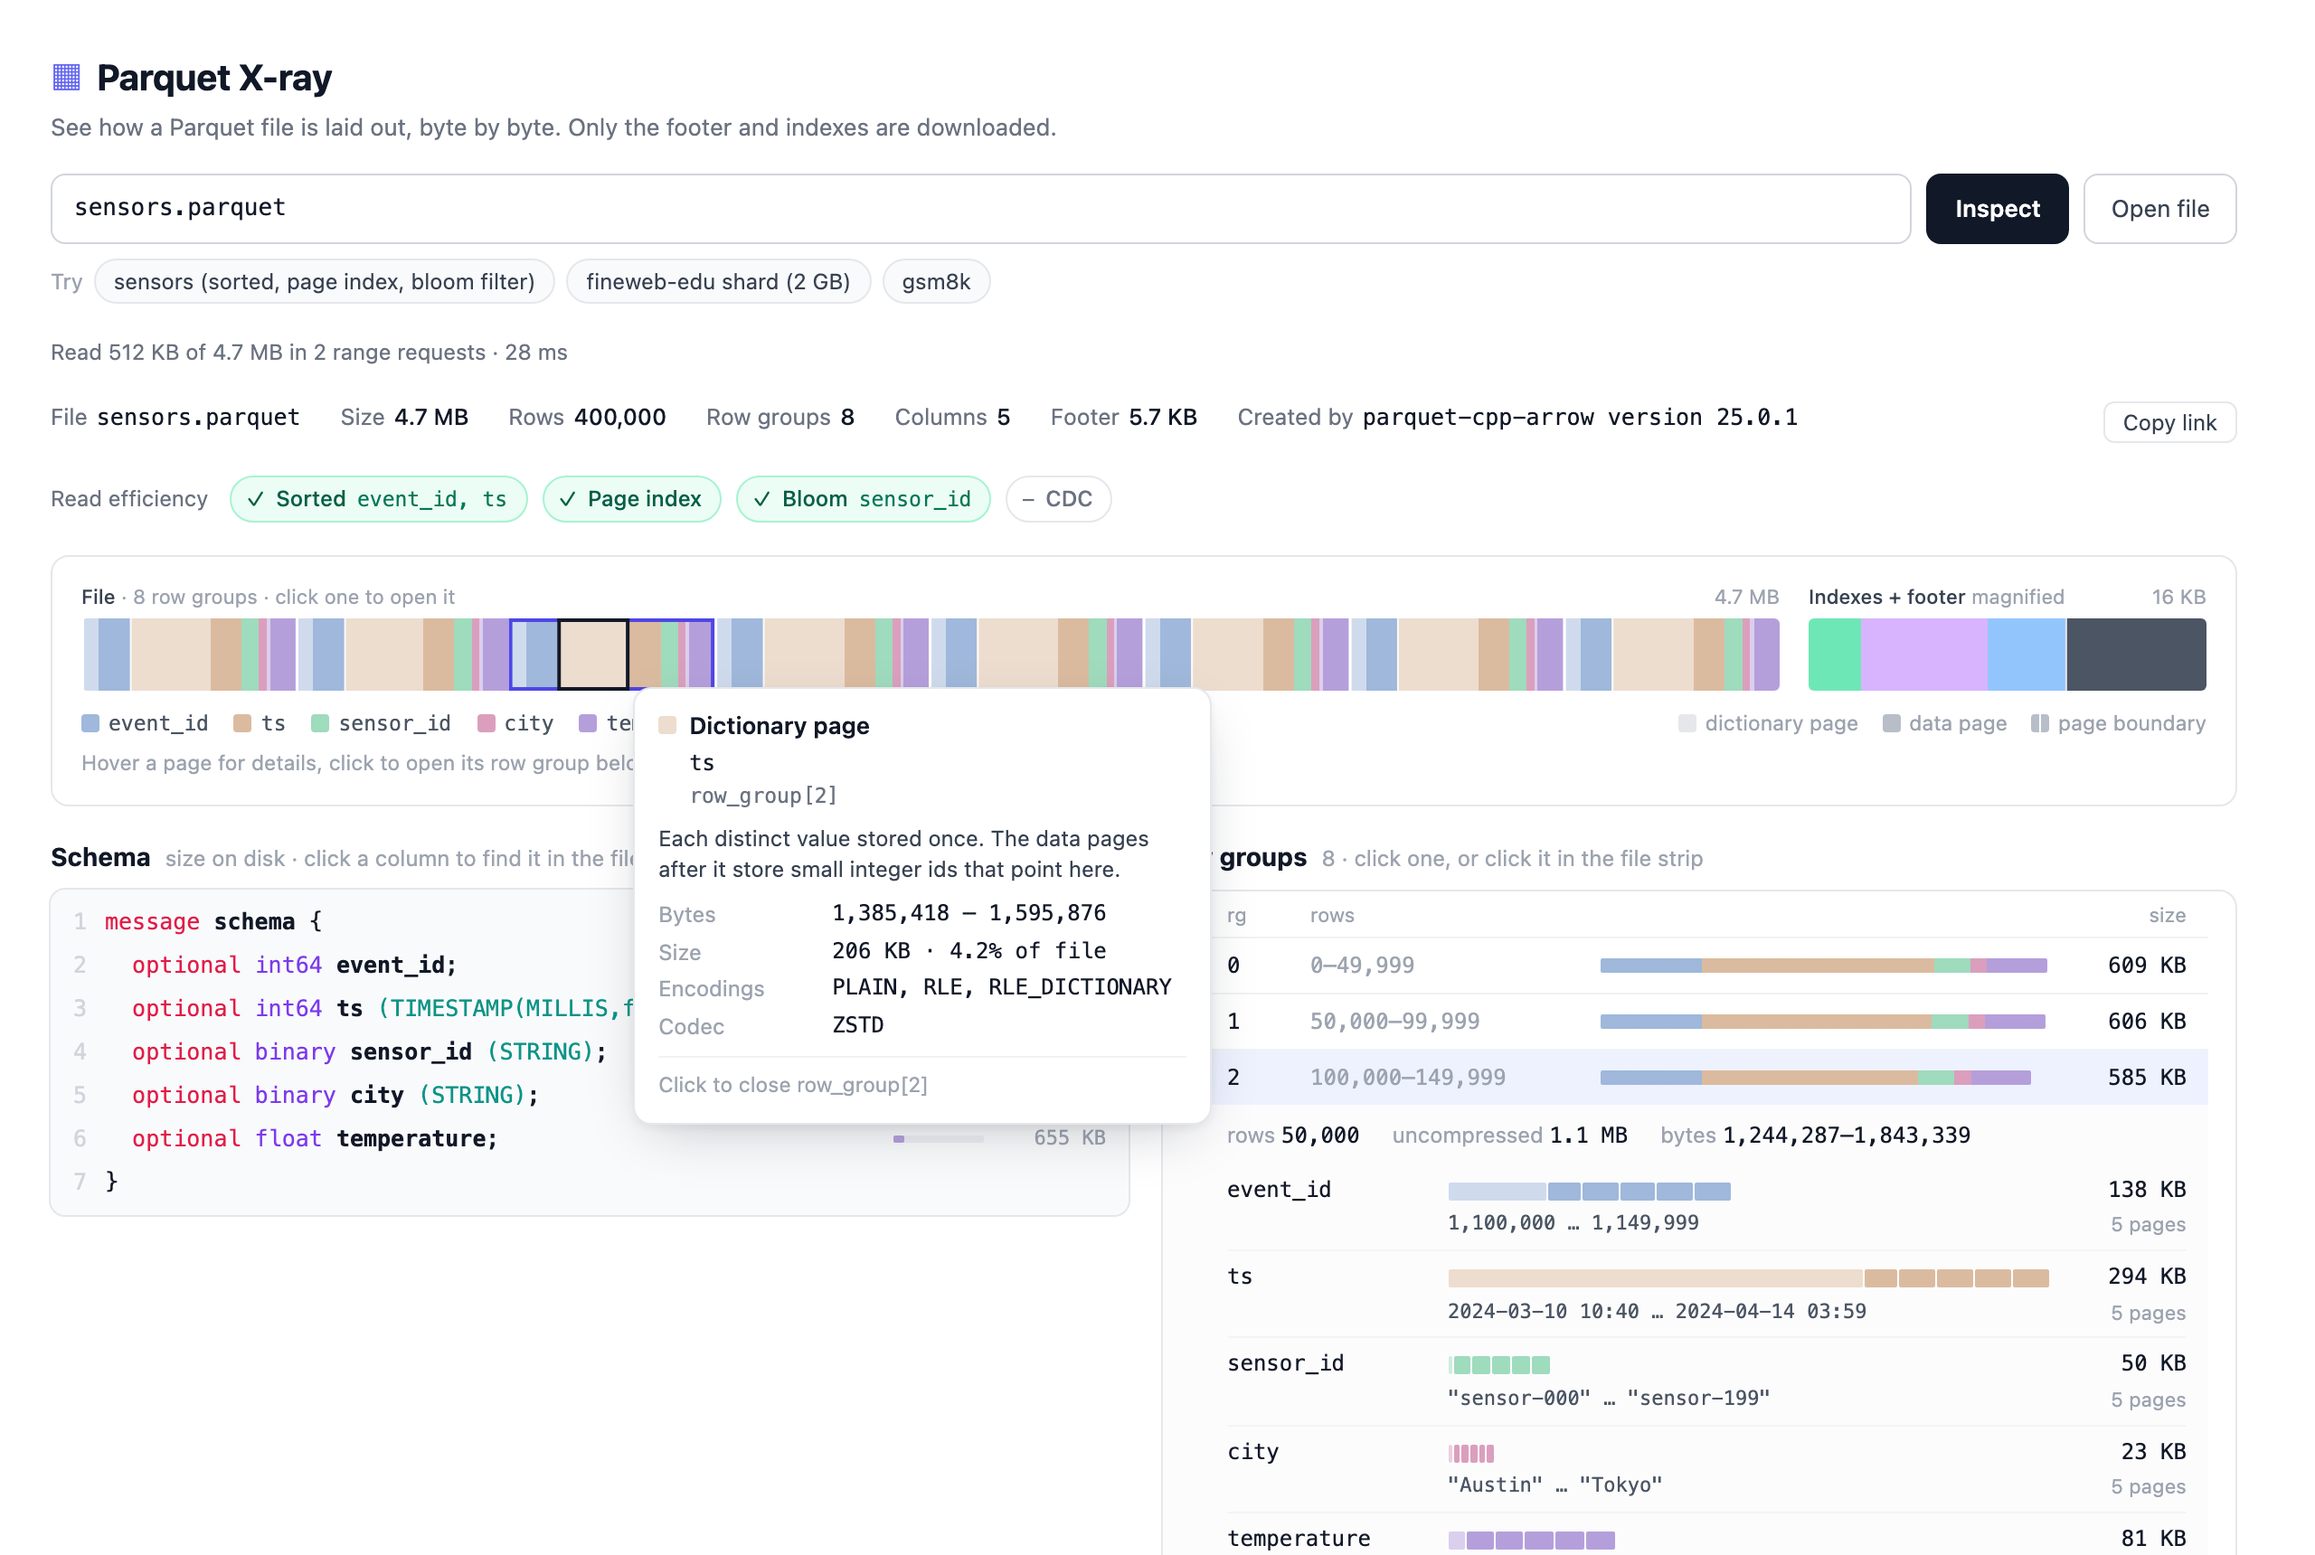
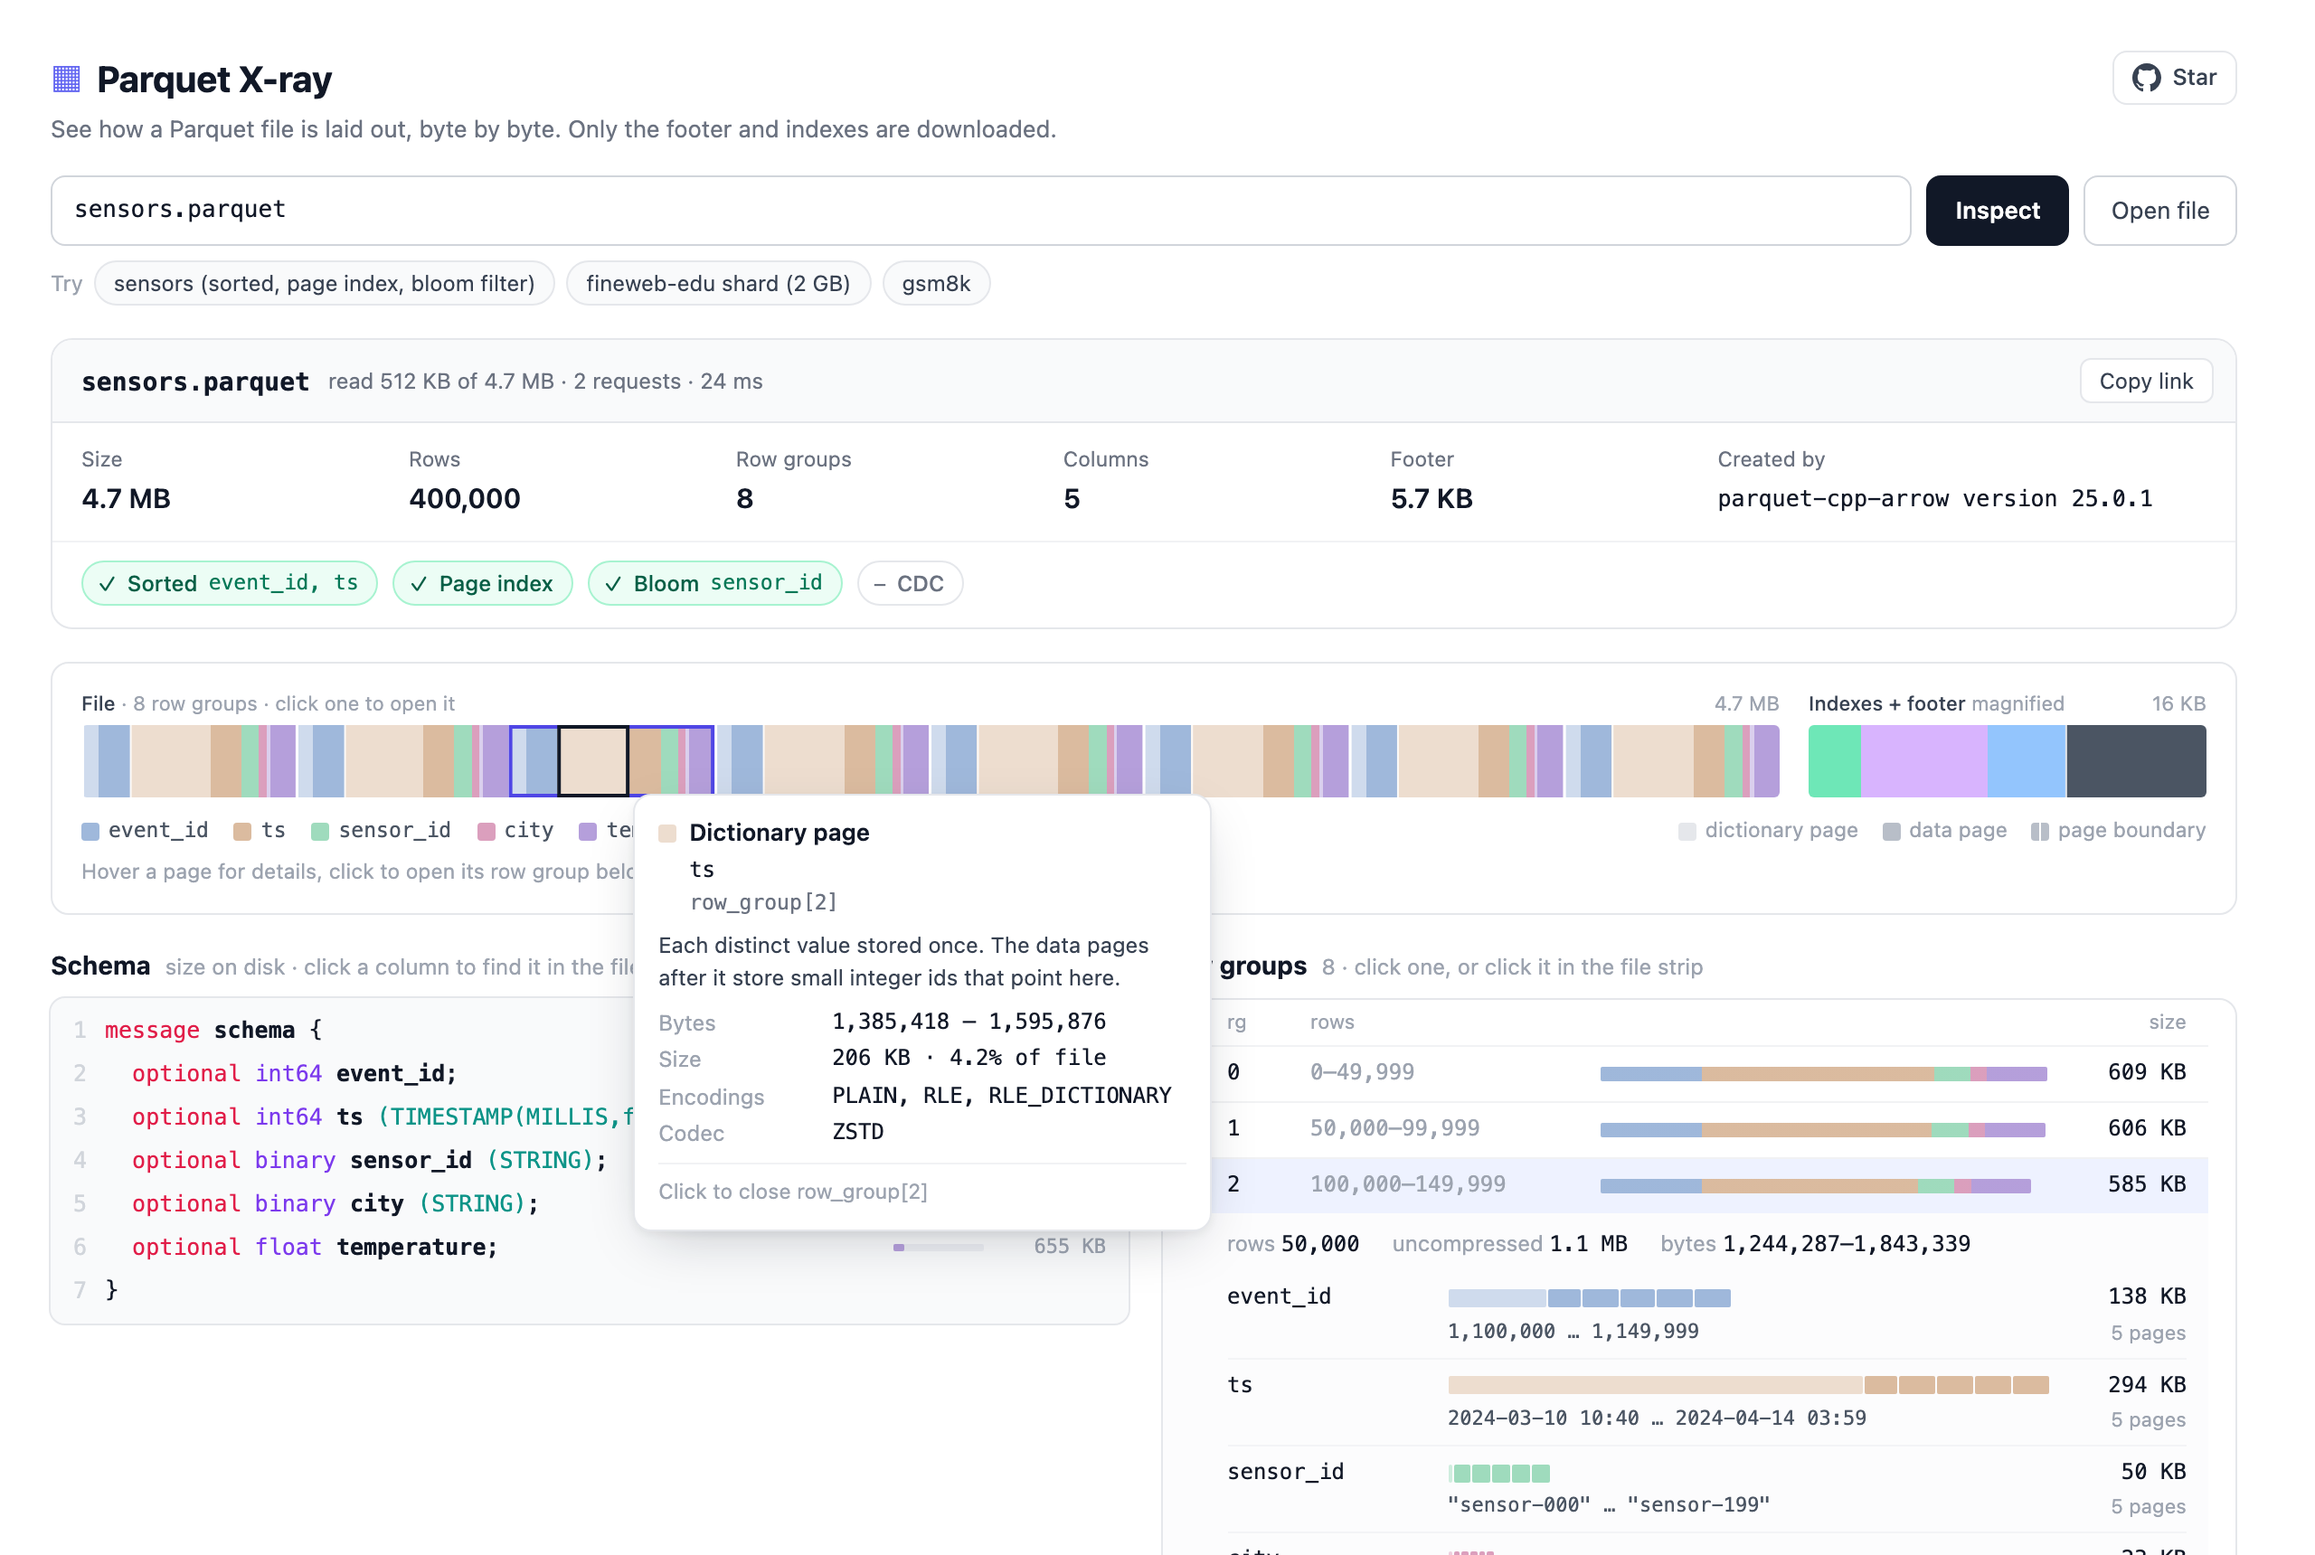
group the file facts, load stats and read efficiency badges into one summary card

diff --git a/src/components/FileSummary.svelte b/src/components/FileSummary.svelte
@@ -1,0 +1,145 @@
+<script lang="ts">
+  import Efficiency from "./Efficiency.svelte";
+  import { getInspector } from "../lib/inspector.svelte";
+  import { formatBytes, formatNumber } from "../lib/format";
+  import { shareUrl, toQuery } from "../lib/share";
+
+  const inspector = getInspector();
+  const { model } = inspector;
+  const { metadata } = model;
+
+  const stats = [
+    { label: "Size", value: formatBytes(model.fileSize) },
+    { label: "Rows", value: formatNumber(metadata.num_rows) },
+    { label: "Row groups", value: formatNumber(metadata.row_groups.length) },
+    { label: "Columns", value: formatNumber(model.leaves.length) },
+    { label: "Footer", value: formatBytes(model.footerLength) },
+  ];
+
+  let copied = $state(false);
+
+  async function copyLink() {
+    const { source, selectedRg, selectedLeaf } = inspector;
+    if (source === null) return;
+    const col = selectedLeaf === null ? null : (model.leaves[selectedLeaf]?.path ?? null);
+    await navigator.clipboard.writeText(shareUrl(toQuery({ url: source, rg: selectedRg, col }), location));
+    copied = true;
+    setTimeout(() => (copied = false), 1500);
+  }
+</script>
+
+<section aria-label="File summary">
+  <header>
+    <h2 class="mono">{model.name}</h2>
+    <span class="loaded">{inspector.loadSummary}</span>
+    {#if inspector.source !== null}
+      <button type="button" onclick={copyLink}>{copied ? "Copied" : "Copy link"}</button>
+    {/if}
+  </header>
+  <dl>
+    {#each stats as stat (stat.label)}
+      <div>
+        <dt>{stat.label}</dt>
+        <dd>{stat.value}</dd>
+      </div>
+    {/each}
+    <div class="created">
+      <dt>Created by</dt>
+      <dd class="mono">{metadata.created_by ?? "unknown"}</dd>
+    </div>
+  </dl>
+  <Efficiency />
+</section>
+
+<style>
+  section {
+    overflow: hidden;
+    border: 1px solid var(--line);
+    border-radius: 12px;
+  }
+
+  header {
+    display: flex;
+    flex-wrap: wrap;
+    align-items: center;
+    gap: 4px 10px;
+    padding: 10px 12px 10px 16px;
+    border-bottom: 1px solid var(--line);
+    background: var(--surface-2);
+  }
+
+  h2 {
+    min-width: 0;
+    margin: 0;
+    overflow: hidden;
+    font-size: 14px;
+    font-weight: 600;
+    text-overflow: ellipsis;
+    white-space: nowrap;
+  }
+
+  .loaded {
+    font-size: 12px;
+    color: var(--text-3);
+  }
+
+  button {
+    margin-left: auto;
+    padding: 3px 10px;
+    border: 1px solid var(--line);
+    border-radius: var(--radius-sm);
+    background: var(--surface);
+    font-size: 12px;
+    color: var(--text-2);
+    cursor: pointer;
+  }
+
+  button:hover {
+    border-color: #d1d5db;
+  }
+
+  dl {
+    display: grid;
+    grid-template-columns: repeat(5, minmax(0, 1fr)) minmax(0, 1.6fr);
+    gap: 12px;
+    margin: 0;
+    padding: 12px 16px;
+  }
+
+  dt {
+    font-size: 11.5px;
+    color: var(--text-3);
+  }
+
+  dd {
+    margin: 2px 0 0;
+    overflow: hidden;
+    font-size: 15px;
+    font-weight: 600;
+    text-overflow: ellipsis;
+    white-space: nowrap;
+  }
+
+  .created dd {
+    margin-top: 4px;
+    font-size: 12.5px;
+    font-weight: 500;
+  }
+
+  @media (max-width: 700px) {
+    header {
+      padding: 10px 12px;
+    }
+    .loaded {
+      order: 3;
+      flex-basis: 100%;
+    }
+    dl {
+      grid-template-columns: repeat(3, minmax(0, 1fr));
+      padding: 12px;
+    }
+    .created {
+      grid-column: 1 / -1;
+    }
+  }
+</style>

diff --git a/src/App.svelte b/src/App.svelte
@@ -29,12 +29,11 @@
     try {
       const { model, counter } = await loadParquet(name, open);
       if (id !== loadId) return;
-      inspector = new Inspector(model, source, initial);
       const ms = Math.round(performance.now() - started);
-      const requests = `${counter.requests} range request${counter.requests === 1 ? "" : "s"}`;
-      status = {
-        text: `Read ${formatBytes(counter.bytes)} of ${formatBytes(model.fileSize)} in ${requests} · ${ms} ms`,
-      };
+      const requests = `${counter.requests} request${counter.requests === 1 ? "" : "s"}`;
+      const summary = `read ${formatBytes(counter.bytes)} of ${formatBytes(model.fileSize)} · ${requests} · ${ms} ms`;
+      inspector = new Inspector(model, source, initial, summary);
+      status = null;
     } catch (error) {
       if (id !== loadId) return;
       console.error(error);
@@ -92,7 +91,7 @@
     {#key inspector}
       <Viewer {inspector} />
     {/key}
-  {:else if !status}
+  {:else if !status?.text}
     <EmptyState />
   {/if}
 </div>
@@ -141,6 +140,11 @@
     margin: 18px 0 0;
     font-size: 12px;
     color: var(--text-3);
+  }
+
+  .status:empty {
+    min-height: 0;
+    margin: 0;
   }
 
   .status.error {

diff --git a/src/lib/inspector.svelte.ts b/src/lib/inspector.svelte.ts
@@ -14,6 +14,8 @@ export class Inspector {
   readonly model: ParquetModel;
   /** The remote URL being shown; local files have no shareable link. */
   readonly source: string | null;
+  /** How much was downloaded to open the file, e.g. "read 512 KB of 4.7 MB · 1 request · 30 ms". */
+  readonly loadSummary: string;
 
   selectedRg = $state<number | null>(null);
   selectedLeaf = $state<number | null>(null);
@@ -26,9 +28,15 @@ export class Inspector {
   revealInPage = false;
   popover = $state.raw<Popover | null>(null);
 
-  constructor(model: ParquetModel, source: string | null, initial: { rg: number | null; col: string | null }) {
+  constructor(
+    model: ParquetModel,
+    source: string | null,
+    initial: { rg: number | null; col: string | null },
+    loadSummary: string,
+  ) {
     this.model = model;
     this.source = source;
+    this.loadSummary = loadSummary;
     this.selectedRg = initial.rg !== null && model.rowGroups[initial.rg] ? initial.rg : null;
     const leaf = model.leaves.findIndex((l) => l.path === initial.col);
     this.selectedLeaf = leaf === -1 ? null : leaf;

diff --git a/src/components/Efficiency.svelte b/src/components/Efficiency.svelte
@@ -9,8 +9,7 @@
   let note = $state("");
 </script>
 
-<section>
-  <span class="label">Read efficiency</span>
+<div class="checks" role="group" aria-label="Read efficiency">
   {#each checks as check (check.label)}
     <button
       type="button"
@@ -29,20 +28,16 @@
   {#if note}
     <p class="note">{note}</p>
   {/if}
-</section>
+</div>
 
 <style>
-  section {
+  .checks {
     display: flex;
     flex-wrap: wrap;
     align-items: center;
     gap: 8px;
-  }
-
-  .label {
-    margin-right: 4px;
-    font-size: 12px;
-    color: var(--text-3);
+    padding: 10px 16px 12px;
+    border-top: 1px solid var(--line-soft);
   }
 
   .chip {
@@ -113,8 +108,8 @@
   }
 
   @media (max-width: 700px) {
-    .label {
-      flex-basis: 100%;
+    .checks {
+      padding: 10px 12px 12px;
     }
     .chip::after {
       display: none;

diff --git a/src/components/Viewer.svelte b/src/components/Viewer.svelte
@@ -1,6 +1,5 @@
 <script lang="ts">
-  import Efficiency from "./Efficiency.svelte";
-  import Facts from "./Facts.svelte";
+  import FileSummary from "./FileSummary.svelte";
   import FileMap from "./FileMap.svelte";
   import Popover from "./Popover.svelte";
   import RowGroups from "./RowGroups.svelte";
@@ -24,8 +23,7 @@
 <svelte:document onclick={() => inspector.hidePopover()} />
 
 <main>
-  <Facts />
-  <Efficiency />
+  <FileSummary />
   <FileMap />
   <div class="columns">
     <Schema />

diff --git a/e2e/app.spec.ts b/e2e/app.spec.ts
@@ -2,7 +2,7 @@ import { expect, test, type Page } from "@playwright/test";
 
 async function openSensors(page: Page, query = "") {
   await page.goto(`/?url=sensors.parquet${query}`);
-  await expect(page.getByRole("status")).toContainText("Read ");
+  await expect(page.getByRole("region", { name: "File summary" })).toContainText(/read .* of 4\.7 MB/);
 }
 
 test("shows the file facts and read efficiency", async ({ page }) => {

diff --git a/scripts/screenshots.ts b/scripts/screenshots.ts
@@ -10,7 +10,7 @@ const BASE = `http://localhost:${PORT}`;
 
 async function open(page: Page, query: string) {
   await page.goto(`${BASE}/?${query}`);
-  await page.getByRole("status").filter({ hasText: /Read / }).waitFor({ timeout: 90_000 });
+  await page.getByRole("region", { name: "File summary" }).waitFor({ timeout: 90_000 });
   await page.waitForTimeout(300);
 }
 
